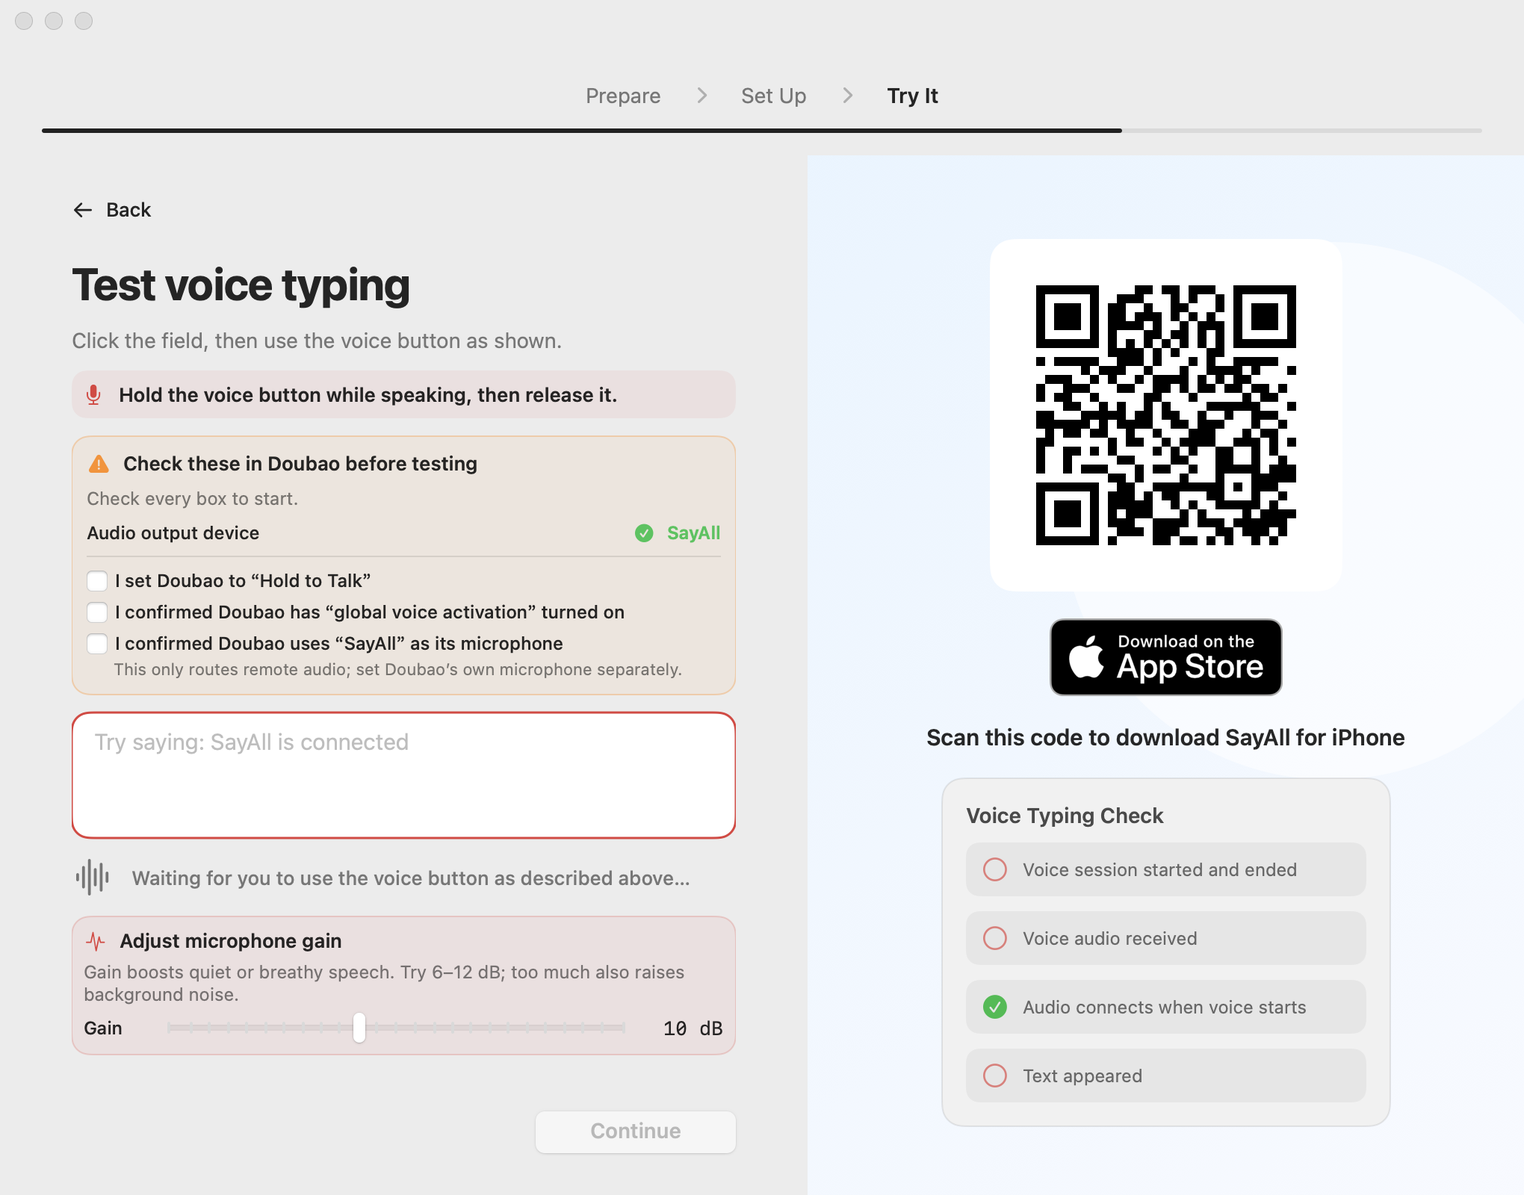
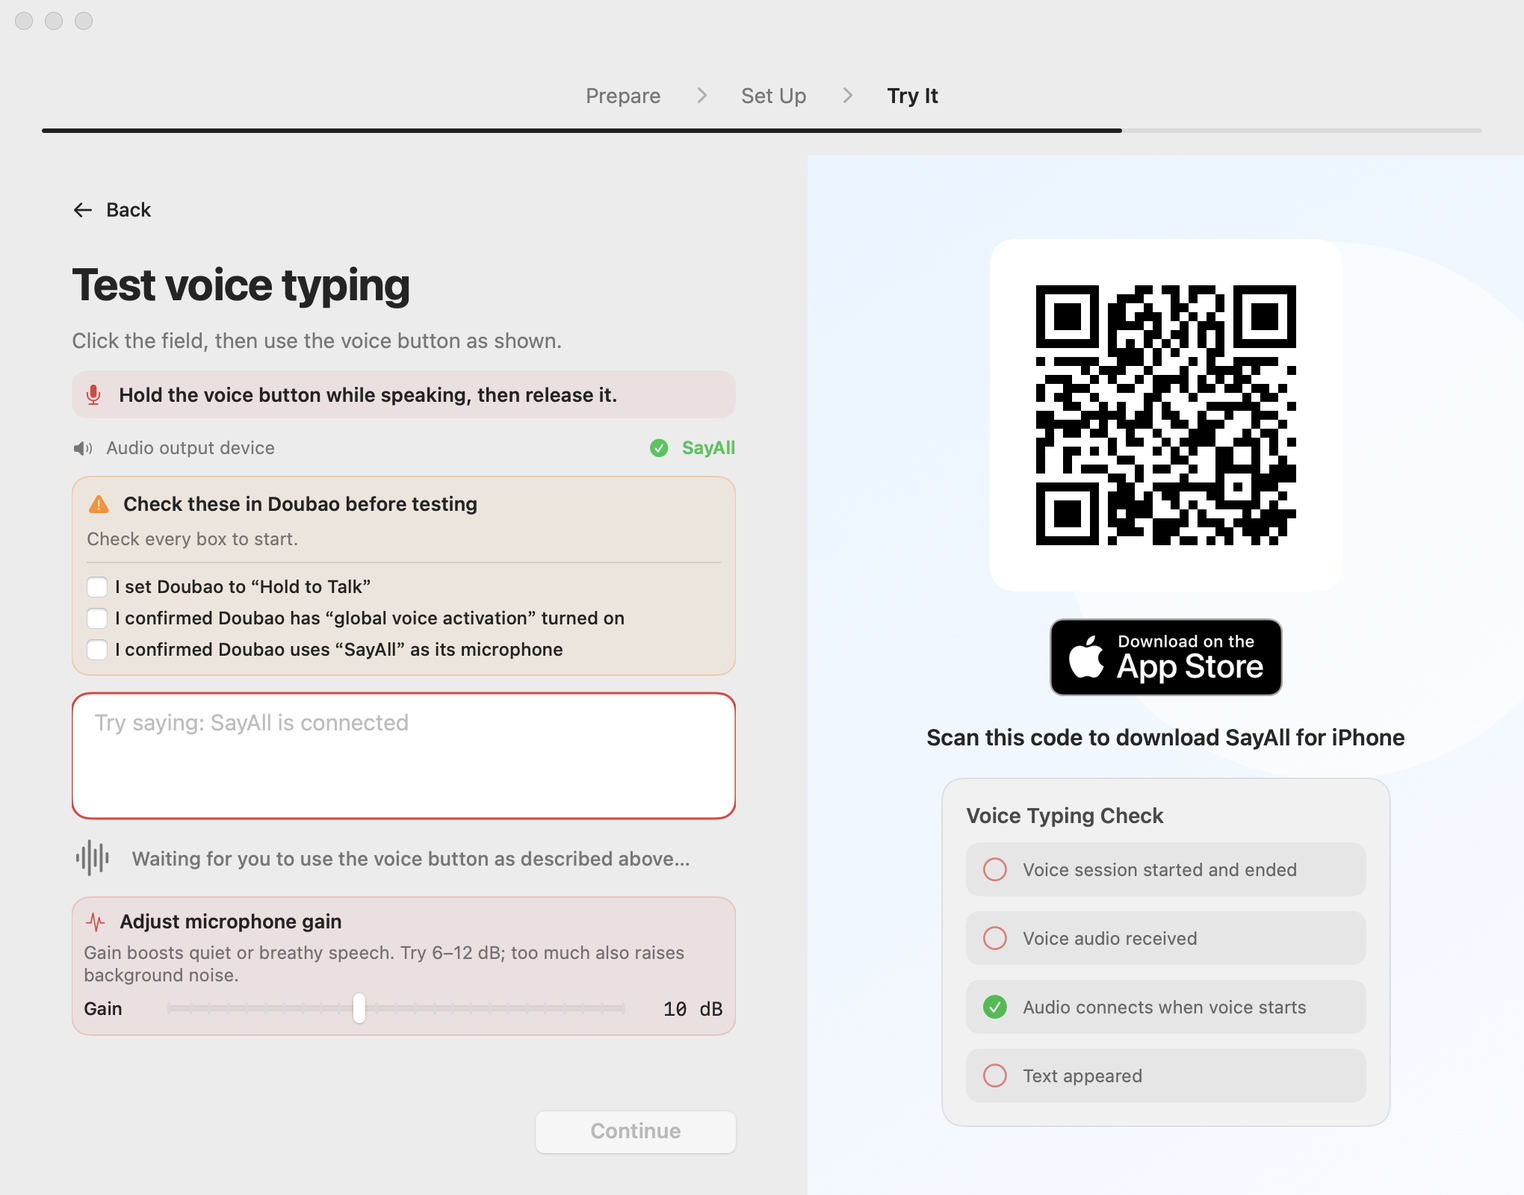
fix(onboarding): move the audio status out of the tool checklist card
Two lines on the voice test card were in the wrong place, not just wordy.

"Audio output device: SayAll" sat inside the card headed "check these in
%@ before testing", so it read as something to look for inside the voice
app. It is not: it reports which device this side sends remote audio to,
and the voice app never sees that row. Moved above the card as a
standalone status line - speaker icon, secondary label, green check when
ready and a red one when not. The card keeps only the title, one line of
guidance, and the checkboxes.

The microphone hint under the last checkbox is gone. It explained the
mechanism ("this only routes remote audio, set the app's microphone
separately"), but the checkbox itself is already the action, and the
step before this one shows the same thing with screenshots. Its copy key
goes with it, so nothing is left unrendered.

The card now says what to check and nothing else; the row outside it says
what this side is doing. A test pins the split: the card body must not
mention the audio output key again, and the row must render before the
card.

diff --git a/Sources/RemoteMic/OnboardingView.swift b/Sources/RemoteMic/OnboardingView.swift
@@ -1840,6 +1840,11 @@ struct OnboardingView: View {
             .frame(maxWidth: .infinity, alignment: .leading)
             .background(Color.accentColor.opacity(0.07), in: RoundedRectangle(cornerRadius: 10))
 
+            // 「音频输出设备」是这一侧的状态，不是在语音工具里要核对的东西。放在核对卡
+            // 外面单独一行：先说清声音从哪出去，再说对方要选哪个名字，两件事不要混在
+            // 一个「在 X 里核对」的标题下面。
+            externalToolAudioOutputRow
+
             externalToolConfigurationConfirmationCard
 
             ZStack(alignment: .topLeading) {
@@ -1966,21 +1971,10 @@ struct OnboardingView: View {
                     .foregroundStyle(Color.orange)
             }
 
-            Text(
-                LocalizedMessage(
-                    "onboarding.voice_test.configuration.detail",
-                    arguments: [localization.text(settings.onboardingVoiceTool.titleKey)]
-                ).text(using: localization)
-            )
+            Text(verbatim: localization.text("onboarding.voice_test.configuration.detail"))
             .font(.system(size: 12))
             .foregroundStyle(.secondary)
             .fixedSize(horizontal: false, vertical: true)
-
-            configurationStatusRow(
-                label: localization.text("onboarding.voice_test.configuration.sayall_audio_output"),
-                value: sayAllAudioOutputConfigurationText,
-                isComplete: onboardingAudioReady
-            )
 
             if let runtimeStatus = selectedVoiceToolRuntimeStatusText {
                 HStack(alignment: .top, spacing: 8) {
@@ -2045,30 +2039,20 @@ struct OnboardingView: View {
                     .toggleStyle(.checkbox)
                 }
 
-                VStack(alignment: .leading, spacing: 3) {
-                    onboardingToggle(id: "voice-test.confirm.microphone", isOn: $externalToolMicrophoneConfirmed) {
-                        Text(
-                            LocalizedMessage(
-                                "onboarding.voice_test.microphone_confirmation.checkbox",
-                                arguments: [
-                                    localization.text(settings.onboardingVoiceTool.titleKey),
-                                    selectedAudioDevice?.name ?? localization.text("onboarding.audio.select_required"),
-                                ]
-                            ).text(using: localization)
-                        )
-                        .font(.system(size: 12, weight: .medium))
-                        .fixedSize(horizontal: false, vertical: true)
-                    }
-                    .toggleStyle(.checkbox)
-
-                    // 这一条最容易错：在 SayAll 里选设备只决定「遥控器声音往哪送」，
-                    // 并不会改语音工具自己的麦克风设置，用户以为选一次就够了。
-                    Text(verbatim: microphoneIsolationHintText)
-                        .font(.system(size: 11))
-                        .foregroundStyle(.secondary)
-                        .fixedSize(horizontal: false, vertical: true)
-                        .padding(.leading, 18)
+                onboardingToggle(id: "voice-test.confirm.microphone", isOn: $externalToolMicrophoneConfirmed) {
+                    Text(
+                        LocalizedMessage(
+                            "onboarding.voice_test.microphone_confirmation.checkbox",
+                            arguments: [
+                                localization.text(settings.onboardingVoiceTool.titleKey),
+                                selectedAudioDevice?.name ?? localization.text("onboarding.audio.select_required"),
+                            ]
+                        ).text(using: localization)
+                    )
+                    .font(.system(size: 12, weight: .medium))
+                    .fixedSize(horizontal: false, vertical: true)
                 }
+                .toggleStyle(.checkbox)
             }
 
             if voiceAttempt.result == .externalToolNoCommit {
@@ -2091,21 +2075,28 @@ struct OnboardingView: View {
         }
     }
 
-    private func configurationStatusRow(
-        label: String,
-        value: String,
-        isComplete: Bool
-    ) -> some View {
+    /// 核对卡上方的一行：这一侧的音频输出状态。
+    ///
+    /// 它原来在卡内，和三条勾选排在一起，于是被「测试前在 X 里核对」的标题统辖，
+    /// 读起来像是要去语音工具里核对「音频输出设备」——但这一行讲的是我们自己把声音
+    /// 送到哪个设备，语音工具并不知道这行。移出卡片，作为前置状态单独一行。
+    private var externalToolAudioOutputRow: some View {
         HStack(alignment: .firstTextBaseline, spacing: 8) {
-            Text(label)
-                .font(.system(size: 12, weight: .medium))
-                .fixedSize(horizontal: false, vertical: true)
+            Image(systemName: "speaker.wave.2.fill")
+                .font(.system(size: 11))
+                .foregroundStyle(.secondary)
+            Text(verbatim: localization.text("onboarding.voice_test.configuration.sayall_audio_output"))
+                .font(.system(size: 12))
+                .foregroundStyle(.secondary)
             Spacer(minLength: 4)
-            Label(value, systemImage: isComplete ? "checkmark.circle.fill" : "xmark.circle.fill")
-                .font(.system(size: 12, weight: .semibold))
-                .foregroundStyle(isComplete ? Color.green : Color.red)
-                .multilineTextAlignment(.trailing)
-                .fixedSize(horizontal: false, vertical: true)
+            Label(
+                sayAllAudioOutputConfigurationText,
+                systemImage: onboardingAudioReady ? "checkmark.circle.fill" : "xmark.circle.fill"
+            )
+            .font(.system(size: 12, weight: .semibold))
+            .foregroundStyle(onboardingAudioReady ? Color.green : Color.red)
+            .multilineTextAlignment(.trailing)
+            .fixedSize(horizontal: false, vertical: true)
         }
     }
 
@@ -3343,17 +3334,6 @@ struct OnboardingView: View {
     /// 遥控器只能按住、语音工具只能按一下时，两边动作本来就不一致，靠 Fn 点按换算桥接。
     private var bridgedGestureHintVisible: Bool {
         proposedPairingPlan?.fnTapModeEnabled == true
-    }
-
-    /// 麦克风勾选下方的小字：说明 SayAll 改不了工具自己的麦克风设置。
-    ///
-    /// 压缩成一行的代价是去掉了重复出现的设备名——勾选那一行刚说过一次，小字再说两遍
-    /// 只会让人跳读。真正的信息只有一句：这里是「声音往哪送」，不是「工具用哪个麦克风」。
-    private var microphoneIsolationHintText: String {
-        LocalizedMessage(
-            "onboarding.voice_test.microphone_confirmation.detail",
-            arguments: [localization.text(settings.onboardingVoiceTool.titleKey)]
-        ).text(using: localization)
     }
 
     /// 失败提示按工具能力分叉：没有全局唤起的工具不该被指向一个不存在的开关。

diff --git a/Tests/RemoteMicTests/OnboardingFlowTests.swift b/Tests/RemoteMicTests/OnboardingFlowTests.swift
@@ -1283,7 +1283,8 @@ struct OnboardingFlowTests {
         #expect(viewSource.contains("externalToolConfigurationConfirmed"))
         #expect(viewSource.contains("sayAllVoiceKeyConfigurationReady"))
         #expect(viewSource.contains("sayAllAudioOutputConfigurationText"))
-        #expect(viewSource.contains(".foregroundStyle(isComplete ? Color.green : Color.red)"))
+        // 音频输出那一行现在独立在核对卡外，就绪时绿勾、未就绪时红叉。
+        #expect(viewSource.contains(".foregroundStyle(onboardingAudioReady ? Color.green : Color.red)"))
         #expect(viewSource.contains(".eventSourceStateID"))
         #expect(viewSource.contains(".eventSourceUnixProcessID"))
         #expect(viewSource.contains("manualTranscriptInputObserved = true"))
@@ -1464,14 +1465,38 @@ struct OnboardingFlowTests {
         for key in [
             "\"onboarding.voice_test.configuration.binding_expected\"",
             "\"onboarding.voice_test.microphone_confirmation.title\"",
+            "\"onboarding.voice_test.microphone_confirmation.detail\"",
             "\"onboarding.voice_test.other_detail\"",
         ] {
             #expect(!chinese.contains(key))
             #expect(!english.contains(key))
         }
-        // 唯一解释「SayAll 改不了工具麦克风设置」的句子，原先从未渲染过，现在挂在勾选下方。
-        #expect(chinese.contains("\"onboarding.voice_test.microphone_confirmation.detail\""))
-        #expect(english.contains("\"onboarding.voice_test.microphone_confirmation.detail\""))
+    }
+
+    @Test func audioOutputStatusSitsOutsideTheToolChecklistCard() throws {
+        // 「音频输出设备」讲的是这一侧把声音送到哪个设备，语音工具并不知道这一行。
+        // 它挂在「测试前在 X 里核对」的标题下面，会被读成「去语音工具里核对音频输出设备」。
+        let root = URL(fileURLWithPath: #filePath)
+            .deletingLastPathComponent()
+            .deletingLastPathComponent()
+            .deletingLastPathComponent()
+        let source = try String(
+            contentsOf: root.appendingPathComponent("Sources/RemoteMic/OnboardingView.swift"),
+            encoding: .utf8
+        )
+        let cardStart = try #require(source.range(
+            of: "private var externalToolConfigurationConfirmationCard"
+        ))
+        let cardEnd = try #require(source.range(
+            of: "private var externalToolAudioOutputRow",
+            range: cardStart.upperBound..<source.endIndex
+        ))
+        let cardBody = String(source[cardStart.lowerBound..<cardEnd.lowerBound])
+        #expect(!cardBody.contains("sayall_audio_output"))
+        #expect(!cardBody.contains("configurationStatusRow"))
+        // 它必须在卡片之前出现——先确认声音从哪出去，再核对对方要用的名字。
+        #expect(source.contains("externalToolAudioOutputRow\n\n            externalToolConfigurationConfirmationCard"))
+        #expect(source.contains("private var externalToolAudioOutputRow: some View"))
     }
 
     @Test func voiceTestConfigurationCopyDoesNotPromiseAFixedNumberOfChecks() throws {
@@ -1505,14 +1530,6 @@ struct OnboardingFlowTests {
                     #expect(!line.lowercased().contains(fragment.lowercased()))
                 }
             }
-        }
-
-        // 麦克风小字只谈「这里决定声音往哪送」，设备名由上方勾选负责，参数只留工具名。
-        for strings in [chinese, english] {
-            let line = try #require(strings.split(separator: "\n").first {
-                $0.hasPrefix("\"onboarding.voice_test.microphone_confirmation.detail\"")
-            })
-            #expect(line.components(separatedBy: "%@").count - 1 == 1)
         }
     }
 

diff --git a/Testing/FirstRunOnboarding.md b/Testing/FirstRunOnboarding.md
@@ -137,10 +137,10 @@
 另外三处收尾：
 
 - 行标签「无线麦 SayAll 音频输出」是写死的，值却是运行时设备名，旧驱动用户会看到「标签写 SayAll、值写 MiRemoteV 2ch」。标签改成「音频输出设备」，设备名只从 `selectedAudioDevice?.name` 出。
-- 麦克风勾选下面补一行小字（复活 `onboarding.voice_test.microphone_confirmation.detail`）：在 SayAll 里选设备只决定遥控器声音往哪送，不会改工具自己的麦克风设置。这句话原先写在一条从未被渲染的键里。
-- 设备名、工具名在三条勾选和两条小字里全部走运行时参数，不再出现第二处写死的名字。
+- 音频输出那一行移到核对卡外面：它讲的是这一侧把声音送到哪个设备，语音工具并不知道这行，挂在「在 X 里核对」的标题下会被读错归属（详见下面的「归属修正」）。
+- 设备名、工具名在勾选里全部走运行时参数，不再出现第二处写死的名字。
 
-死键处理（Sources 里 0 引用，逐条 `git grep` 确认）：删除 `onboarding.voice_test.configuration.binding_expected`、`onboarding.voice_test.microphone_confirmation.title`、`onboarding.voice_test.other_detail`；`onboarding.voice_test.microphone_confirmation.detail` 从死键改为渲染在麦克风勾选下方。
+死键处理（Sources 里 0 引用，逐条 `git grep` 确认）：删除 `onboarding.voice_test.configuration.binding_expected`、`onboarding.voice_test.microphone_confirmation.title`、`onboarding.voice_test.other_detail`、`onboarding.voice_test.configuration.voice_gesture_checkbox`（被两条按手势分流的键取代）。`microphone_confirmation.detail` 曾短暂复活，后按下面的「归属修正」一并删除。
 
 版式：核对卡外层间距 4 → 8、内边距 8 → 10、勾选包成 6pt 一组；语音测试页外层间距 8 → 12。
 
@@ -155,16 +155,26 @@
 
 压缩的副作用是好的：Typeless 未运行的异常态原先会多出两行红色运行时状态加一行桥接说明，把增益卡顶出 1020 × 772 的首屏；文字收紧后，异常态也完整放下了，`manifest.json` 里原先那条「需要滚动」的说明已随之删除。
 
+### 归属修正：音频输出行离开核对卡，麦克风小字删除（同日）
+
+两条都是「这句话不该在这里」的问题：
+
+- **「音频输出设备 ✓ SayAll」不属于核对卡。** 它上面就是「测试前在豆包输入法里核对这几项」，读起来像要去豆包输入法里核对一个叫「音频输出设备」的选项——但这一行讲的是我们这一侧把声音送到哪个设备，语音工具根本看不到它。现在它移到核对卡外、卡的上方，用喇叭图标 + 灰色标签单独成行，作为「先确认声音从哪出去」的前置状态；就绪绿勾、未就绪红叉（另一张 bridged 截图正好是红叉态）。
+- **麦克风小字删除。** 「这里只决定遥控器声音往哪送，%@的麦克风要单独选一次。」解释的是机制，而上面那条勾选本身已经是行动指令（「我已确认%@的麦克风是“%@”」），再解释一遍只是重复。机制说明属于上一步的图文引导（`onboarding.voice_tool.guide.screenshot.doubao_settings` 已经写了「在麦克风选择中选择…」）。因此 `onboarding.voice_test.microphone_confirmation.detail` 连同渲染点一起删除，不留死键。
+
+核对卡现在只剩三样东西：标题、一句说明、勾选。卡外的音频状态行与卡内勾选在版式上靠「有无背景」区分，不再靠间距猜测归属。
+
 ### 自动化与构建
 
 - `swift build --disable-keychain --disable-sandbox` 公开构建通过。
-- `swift test --disable-keychain --disable-sandbox --filter OnboardingFlowTests`：86 项通过，含本次新增六条：
+- `swift test --disable-keychain --disable-sandbox --filter OnboardingFlowTests`：87 项通过，含本次新增七条：
   - `globalVoiceSupportIsUnknownForToolsWeNeverObserved()`：豆包 `true`，微信 / Typeless / Vokie `false`，其他与未选择为 `nil`。
   - `holdOnlyRemoteAndToggleOnlyToolBridgeThroughFunctionTap()`：Typeless + Siri Remote 解析成按一下并开启 `fnTapModeEnabled`；豆包 + Siri Remote 仍是按住、不开换算。
   - `voiceTestGestureCheckboxFollowsTheResolvedGesture()`：勾选项走 `resolvedVoiceGestureMode`，两条键都在，旧键不再被引用，桥接提示条件存在。
   - `voiceTestFailureHintOnlyMentionsGlobalActivationWhenTheToolHasIt()`：失败提示分两条键，中文里那句写死「全局唤起」的旧文案已不存在。
-  - `voiceTestDropsKeysNoViewEverRendered()`：三个死键在两份 strings 里都已删除，`microphone_confirmation.detail` 保留。
-  - `voiceTestConfigurationCopyDoesNotPromiseAFixedNumberOfChecks()`：标题与说明里不出现固定计数，麦克风小字只带一个占位符（只查这两个键，「三项权限」这类准确描述不受影响）。
+  - `voiceTestDropsKeysNoViewEverRendered()`：四个死键在两份 strings 里都已删除（含后来删掉的 `microphone_confirmation.detail`）。
+  - `voiceTestConfigurationCopyDoesNotPromiseAFixedNumberOfChecks()`：标题与说明里不出现固定计数（只查这两个键，「三项权限」这类准确描述不受影响）。
+  - `audioOutputStatusSitsOutsideTheToolChecklistCard()`：核对卡段落里不再出现 `sayall_audio_output` / `configurationStatusRow`，且音频行必须在卡之前渲染。
 - `swift test --disable-keychain --disable-sandbox --filter LocalizationTests`：8 项通过，中英文 key 集合与占位符个数一致。
 
 ### 离屏渲染证据
@@ -173,23 +183,23 @@
 
 | 文件 | 组合 / 状态 | SHA-256 |
 | --- | --- | --- |
[6 lines of base64/hex data omitted]
 
-旧驱动设备名（`MiRemoteV 2ch`）未单独出图：设 `REMOTE_MIC_ONBOARDING_SCREENSHOT_AUDIO_NAME=legacy` 可复现，设备行、麦克风勾选和说明小字都会跟着显示真实设备名。
+旧驱动设备名（`MiRemoteV 2ch`）未单独出图：设 `REMOTE_MIC_ONBOARDING_SCREENSHOT_AUDIO_NAME=legacy` 可复现，核对卡上方的音频行与第三条勾选会一起显示真实设备名。
 
 渲染环境没有真实的语音工具进程，勾选都是未勾选态；「全部勾选才允许继续」的逻辑由 `OnboardingFlowPolicy` 的既有用例覆盖，不由截图证明。
 
 ### 生产页面检查
 
 1. 用豆包进入语音测试页，确认标题是「测试前在豆包输入法里核对这几项」、说明是「都勾上才能开始测试。」，不再出现「必须一致」，也不再出现「三条」「三项」这类计数。
-2. 确认第一行显示「音频输出设备」，右侧值是系统里真实的设备名（新装是 `SayAll`，旧驱动是 `MiRemoteV 2ch`），两者不再自相矛盾。
+2. 确认「音频输出设备」这一行在橙卡**外面**、卡的上方，右侧是系统里真实的设备名（新装 `SayAll`，旧驱动 `MiRemoteV 2ch`）；这一行不该出现在橙卡的勾选清单里。
 3. 确认第一条勾选写的是「我已把豆包输入法设为“按住说话”」，与上方语音键提示条一致。
 4. 换 Typeless 并把控制方式设为实体遥控器：确认上方提示条变成「按一下语音键开始说话，再按一下结束」，第一条勾选同步变成「按一下开始，再按一下结束」，且下方多出一行带双向箭头的小字解释长按换算。
 5. 换成微信输入法 / Typeless / Vokie / 其他：确认没有「全局唤起语音」那条勾选（只剩两条），而标题和说明里的措辞不变、仍然读得通——这是「不写数量」的意义。
 6. 用豆包：确认第二条勾选是「我已确认豆包输入法开启了“全局唤起语音”」，点开豆包确实有这个开关。
-7. 麦克风勾选下方的小字确认在且只有一行：「这里只决定遥控器声音往哪送，%@的麦克风要单独选一次。」
+7. 确认麦克风勾选下方**没有**小字说明；橙卡里除标题、说明、勾选之外不应再有其他文字。
 8. 拨掉语音工具进程让它报「尚未运行」，再让某次测试收不到文字，确认红色失败提示里：豆包说「全局唤起语音」，其余工具说的是「正在运行并已开启语音输入」，不提全局唤起。
 9. 中英文在 1020 × 772 下逐条检查，增益滑杆和数值、底部「继续」都完整可见。
 
@@ -198,6 +208,8 @@
 - 标题或说明里再次出现「必须一致」「与页面提示一致」这类无指向或错误的断言，判定失败。
 - 勾选项文案与上方语音键提示条说的不是同一个动作（提示条说按一下、勾选让你确认按住），判定失败。
 - 只能按住的控制方式配只支持按一下的工具时，页面没有解释换算，用户会以为自己设错了；缺这行小字判定失败。
+- 「音频输出设备」又回到橙卡里、被「在 X 里核对」的标题统辖，判定失败——它会让用户去语音工具里找一个并不存在的「音频输出设备」。
+- 麦克风勾选下方又出现解释性小字，判定失败：勾选本身已是行动指令，机制说明属于上一步。
 - 无全局唤起的工具上出现「全局唤起语音」勾选，或失败提示让它去找这个开关，判定失败。
 - 标签写 `SayAll`、值是 `MiRemoteV 2ch`（或反过来），判定失败。
 - 标题或说明里出现「三条」「三项」这类固定数量，导致只有两条勾选的工具上读起来对不上，判定失败。
